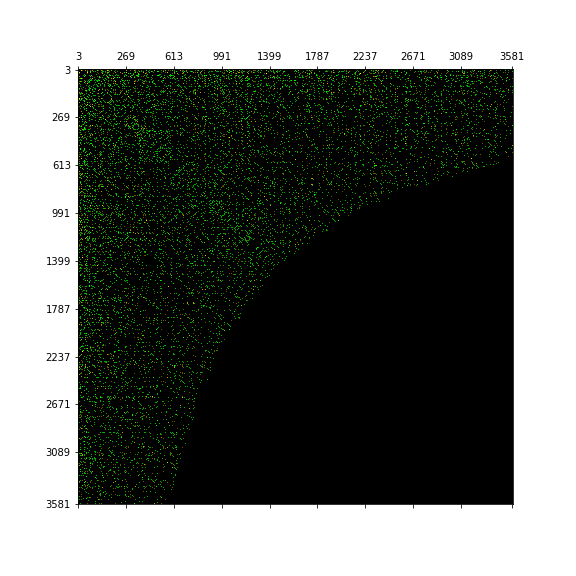
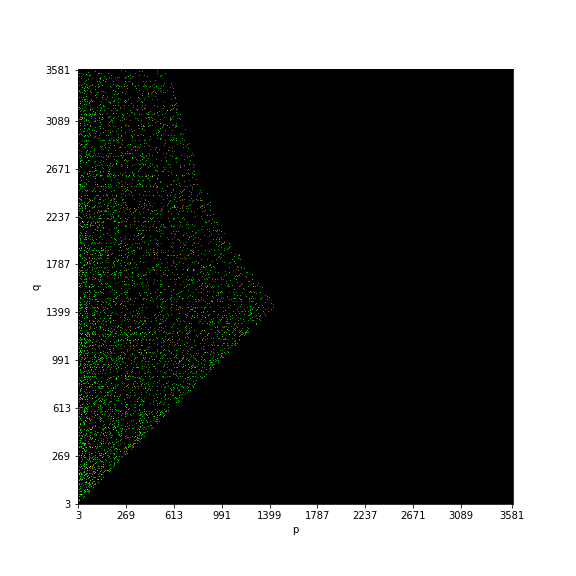
Patterns for cases 8, 17, 26 fixed acc. to q>p and standard graph orientation

diff --git a/python/scripts_patterns/pattern_case_17both_congruent_numbers_matrix.py b/python/scripts_patterns/pattern_case_17both_congruent_numbers_matrix.py
@@ -10,7 +10,6 @@ import pandas as pd
 matrix_size = 500
 matrix = np.zeros((matrix_size, matrix_size), dtype = np.float64)
 
-#with open('C:/Users/esultano/git/elliptic_curves/data/elliptic_curves.csv') as f:
 with open('../../data/elliptic_curves.csv') as f:
     max_possible_cnt = 23
     max_actual_cnt = 0
@@ -31,7 +30,6 @@ with open('../../data/elliptic_curves.csv') as f:
                 max_actual_cnt = max(max_actual_cnt, cnt)
                 return 0.4 + 0.6 * Transform((cnt - 0.5) / max_possible_cnt)
             matrix[idx_p,idx_q] = GetGrey()
-            matrix[idx_q,idx_p] = matrix[idx_p,idx_q]
 
 assert max_actual_cnt == max_possible_cnt, (max_actual_cnt, max_possible_cnt)
 
@@ -53,11 +51,14 @@ fig = plt.figure(figsize=(8, 8))
 
 
 ax = fig.add_subplot(111)
-matrix_plot = ax.matshow(matrix, interpolation='nearest',
+matrix_plot = ax.imshow(matrix.transpose(), origin='lower', interpolation='nearest', 
     cmap = colors.LinearSegmentedColormap.from_list('my_cmap', matrix_cell_colors))
 #fig.colorbar(matrix_plot)
 ax.set_xticks(ticks); ax.set_xticklabels(ticklabels)
 ax.set_yticks(ticks); ax.set_yticklabels(ticklabels)
+
+ax.set_xlabel('p')
+ax.set_ylabel('q')
 
 plt.savefig('pattern_case_17_grey.png')
 plt.show()
@@ -67,7 +68,6 @@ plt.show()
 matrix_size = 500
 matrix = np.zeros((matrix_size, matrix_size), dtype = np.float64)
 
-#with open('C:/Users/esultano/git/elliptic_curves/data/elliptic_curves.csv') as f:
 with open('../../data/elliptic_curves.csv') as f:
     max_possible_cnt = 6 #change it when an assertion error arises
     max_actual_cnt = 0
@@ -96,7 +96,6 @@ with open('../../data/elliptic_curves.csv') as f:
                 assert 1 <= max_case_cnt <= max_possible_cnt, (max_case_cnt, max_possible_cnt)
                 return 1.0 / 5 * (max_case + 0.5 + 0.5 * Transform((max_case_cnt - 0.5) / max_possible_cnt))
             matrix[idx_p,idx_q] = GetColored()
-            matrix[idx_q,idx_p] = matrix[idx_p,idx_q]
 
 assert max_actual_cnt == max_possible_cnt, (max_actual_cnt, max_possible_cnt)
 
@@ -116,11 +115,14 @@ for i, c in enumerate(base_colors):
 
 fig = plt.figure(figsize=(8, 8))
 ax = fig.add_subplot(111)
-matrix_plot = ax.matshow(matrix, interpolation='nearest',
+matrix_plot = ax.imshow(matrix.transpose(), origin='lower', interpolation='nearest', 
     cmap = colors.LinearSegmentedColormap.from_list('my_cmap', matrix_cell_colors))
 #fig.colorbar(matrix_plot)
 ax.set_xticks(ticks); ax.set_xticklabels(ticklabels)
 ax.set_yticks(ticks); ax.set_yticklabels(ticklabels)
+
+ax.set_xlabel('p')
+ax.set_ylabel('q')
 
 plt.savefig('pattern_case_17_green.png')
 plt.show()

diff --git a/python/scripts_patterns/pattern_case_26both_congruent_numbers_matrix.py b/python/scripts_patterns/pattern_case_26both_congruent_numbers_matrix.py
@@ -11,7 +11,6 @@ matrix_size = 500
 matrix = np.zeros((matrix_size, matrix_size))
 
 pq_table = []
-#with open('C:/Users/esultano/git/elliptic_curves/data/elliptic_curves.csv') as f:
 with open('../../data/elliptic_curves.csv') as f:
     for line in f.readlines():
         line = line.strip()
@@ -23,11 +22,9 @@ with open('../../data/elliptic_curves.csv') as f:
             if idx_p < matrix_size and idx_q < matrix_size:
                 if len(cases) > 0:
                     matrix[idx_p,idx_q] = 1
-                    matrix[idx_q,idx_p] = 1
                 else:
                     pq_table.append([p,q])
                     matrix[idx_p,idx_q] = 0.2
-                    matrix[idx_q,idx_p] = 0.2
 
 pd.DataFrame(pq_table).to_csv('pq_cases_case_26_c=2.csv', header=False, index=False)
 
@@ -39,10 +36,13 @@ ticklabels = [e[1] for e in axis_labels]
 
 fig = plt.figure(figsize=(8, 8))
 ax = fig.add_subplot(111)
-matrix_plot = ax.matshow(matrix, interpolation='nearest')
+matrix_plot = ax.imshow(matrix.transpose(), origin='lower', interpolation='nearest')
 #fig.colorbar(matrix_plot)
 ax.set_xticks(ticks); ax.set_xticklabels(ticklabels)
 ax.set_yticks(ticks); ax.set_yticklabels(ticklabels)
+
+ax.set_xlabel('p')
+ax.set_ylabel('q')
 
 plt.savefig('pattern_case_26_c=2.png')
 plt.show()
@@ -55,7 +55,6 @@ plt.show()
 matrix_size = 500
 matrix = np.zeros((matrix_size, matrix_size))
 
-#with open('C:/Users/esultano/git/elliptic_curves/data/elliptic_curves.csv') as f:
 with open('../../data/elliptic_curves.csv') as f:
     for line in f.readlines():
         line = line.strip()
@@ -73,7 +72,6 @@ with open('../../data/elliptic_curves.csv') as f:
             cases_list = list(cases_set)
             val = sum(i*i for i in cases_list)
             matrix[idx_p,idx_q] = val
-            matrix[idx_q,idx_p] = val
 
 max_prime = prime(matrix_size+2)
 axis_labels = list(enumerate(sieve.primerange(3, max_prime)))
@@ -83,10 +81,13 @@ ticklabels = [e[1] for e in axis_labels]
 
 fig = plt.figure(figsize=(8, 8))
 ax = fig.add_subplot(111)
-matrix_plot = ax.matshow(matrix, interpolation='nearest')
+matrix_plot = ax.imshow(matrix.transpose(), origin='lower', interpolation='nearest')
 #fig.colorbar(matrix_plot)
 ax.set_xticks(ticks); ax.set_xticklabels(ticklabels)
 ax.set_yticks(ticks); ax.set_yticklabels(ticklabels)
+
+ax.set_xlabel('p')
+ax.set_ylabel('q')
 
 plt.savefig('pattern_case_26_c=1_c=2.png')
 plt.show()

diff --git a/python/scripts_patterns/pattern_case_8_congruent_numbers_matrix2.py b/python/scripts_patterns/pattern_case_8_congruent_numbers_matrix2.py
@@ -18,22 +18,21 @@ prime_list=list(primes)
 prime_list.reverse()
 
 l = len(prime_list)
-for i, p in enumerate(prime_list):
+for i, q in enumerate(prime_list):
     if i < l - 1:
         prime_sublist = prime_list[i+1:]
-        for j, q in enumerate(prime_sublist):
+        for j, p in enumerate(prime_sublist):
             #print("{0}-{1}".format(p,q))
             idx_p = sieve.search(p)[0]-2
             idx_q = sieve.search(q)[0]-2
             if idx_p < matrix_size and idx_q < matrix_size:
-                d = p-q
+                d = q-p
                 sqrt_num = math.sqrt(d)
                 if sqrt_num.is_integer():
                     # 8 -> yellow
                     # 4 -> blue
                     val = 8 if isPowerOfTwo(d) else 4
                     matrix[idx_p,idx_q] = val
-                    matrix[idx_q,idx_p] = val
 
 max_prime = prime(matrix_size+2)
 axis_labels = list(enumerate(sieve.primerange(3, max_prime)))
@@ -43,10 +42,13 @@ ticklabels = [e[1] for e in axis_labels]
 
 fig = plt.figure(figsize=(8, 8))
 ax = fig.add_subplot(111)
-matrix_plot = ax.matshow(matrix, interpolation='nearest')
+matrix_plot = ax.imshow(matrix.transpose(), origin='lower', interpolation='nearest')
 #fig.colorbar(matrix_plot)
 ax.set_xticks(ticks); ax.set_xticklabels(ticklabels)
 ax.set_yticks(ticks); ax.set_yticklabels(ticklabels)
+
+ax.set_xlabel('p')
+ax.set_ylabel('q')
 
 plt.savefig('pattern_case_8.png')
 plt.show()
